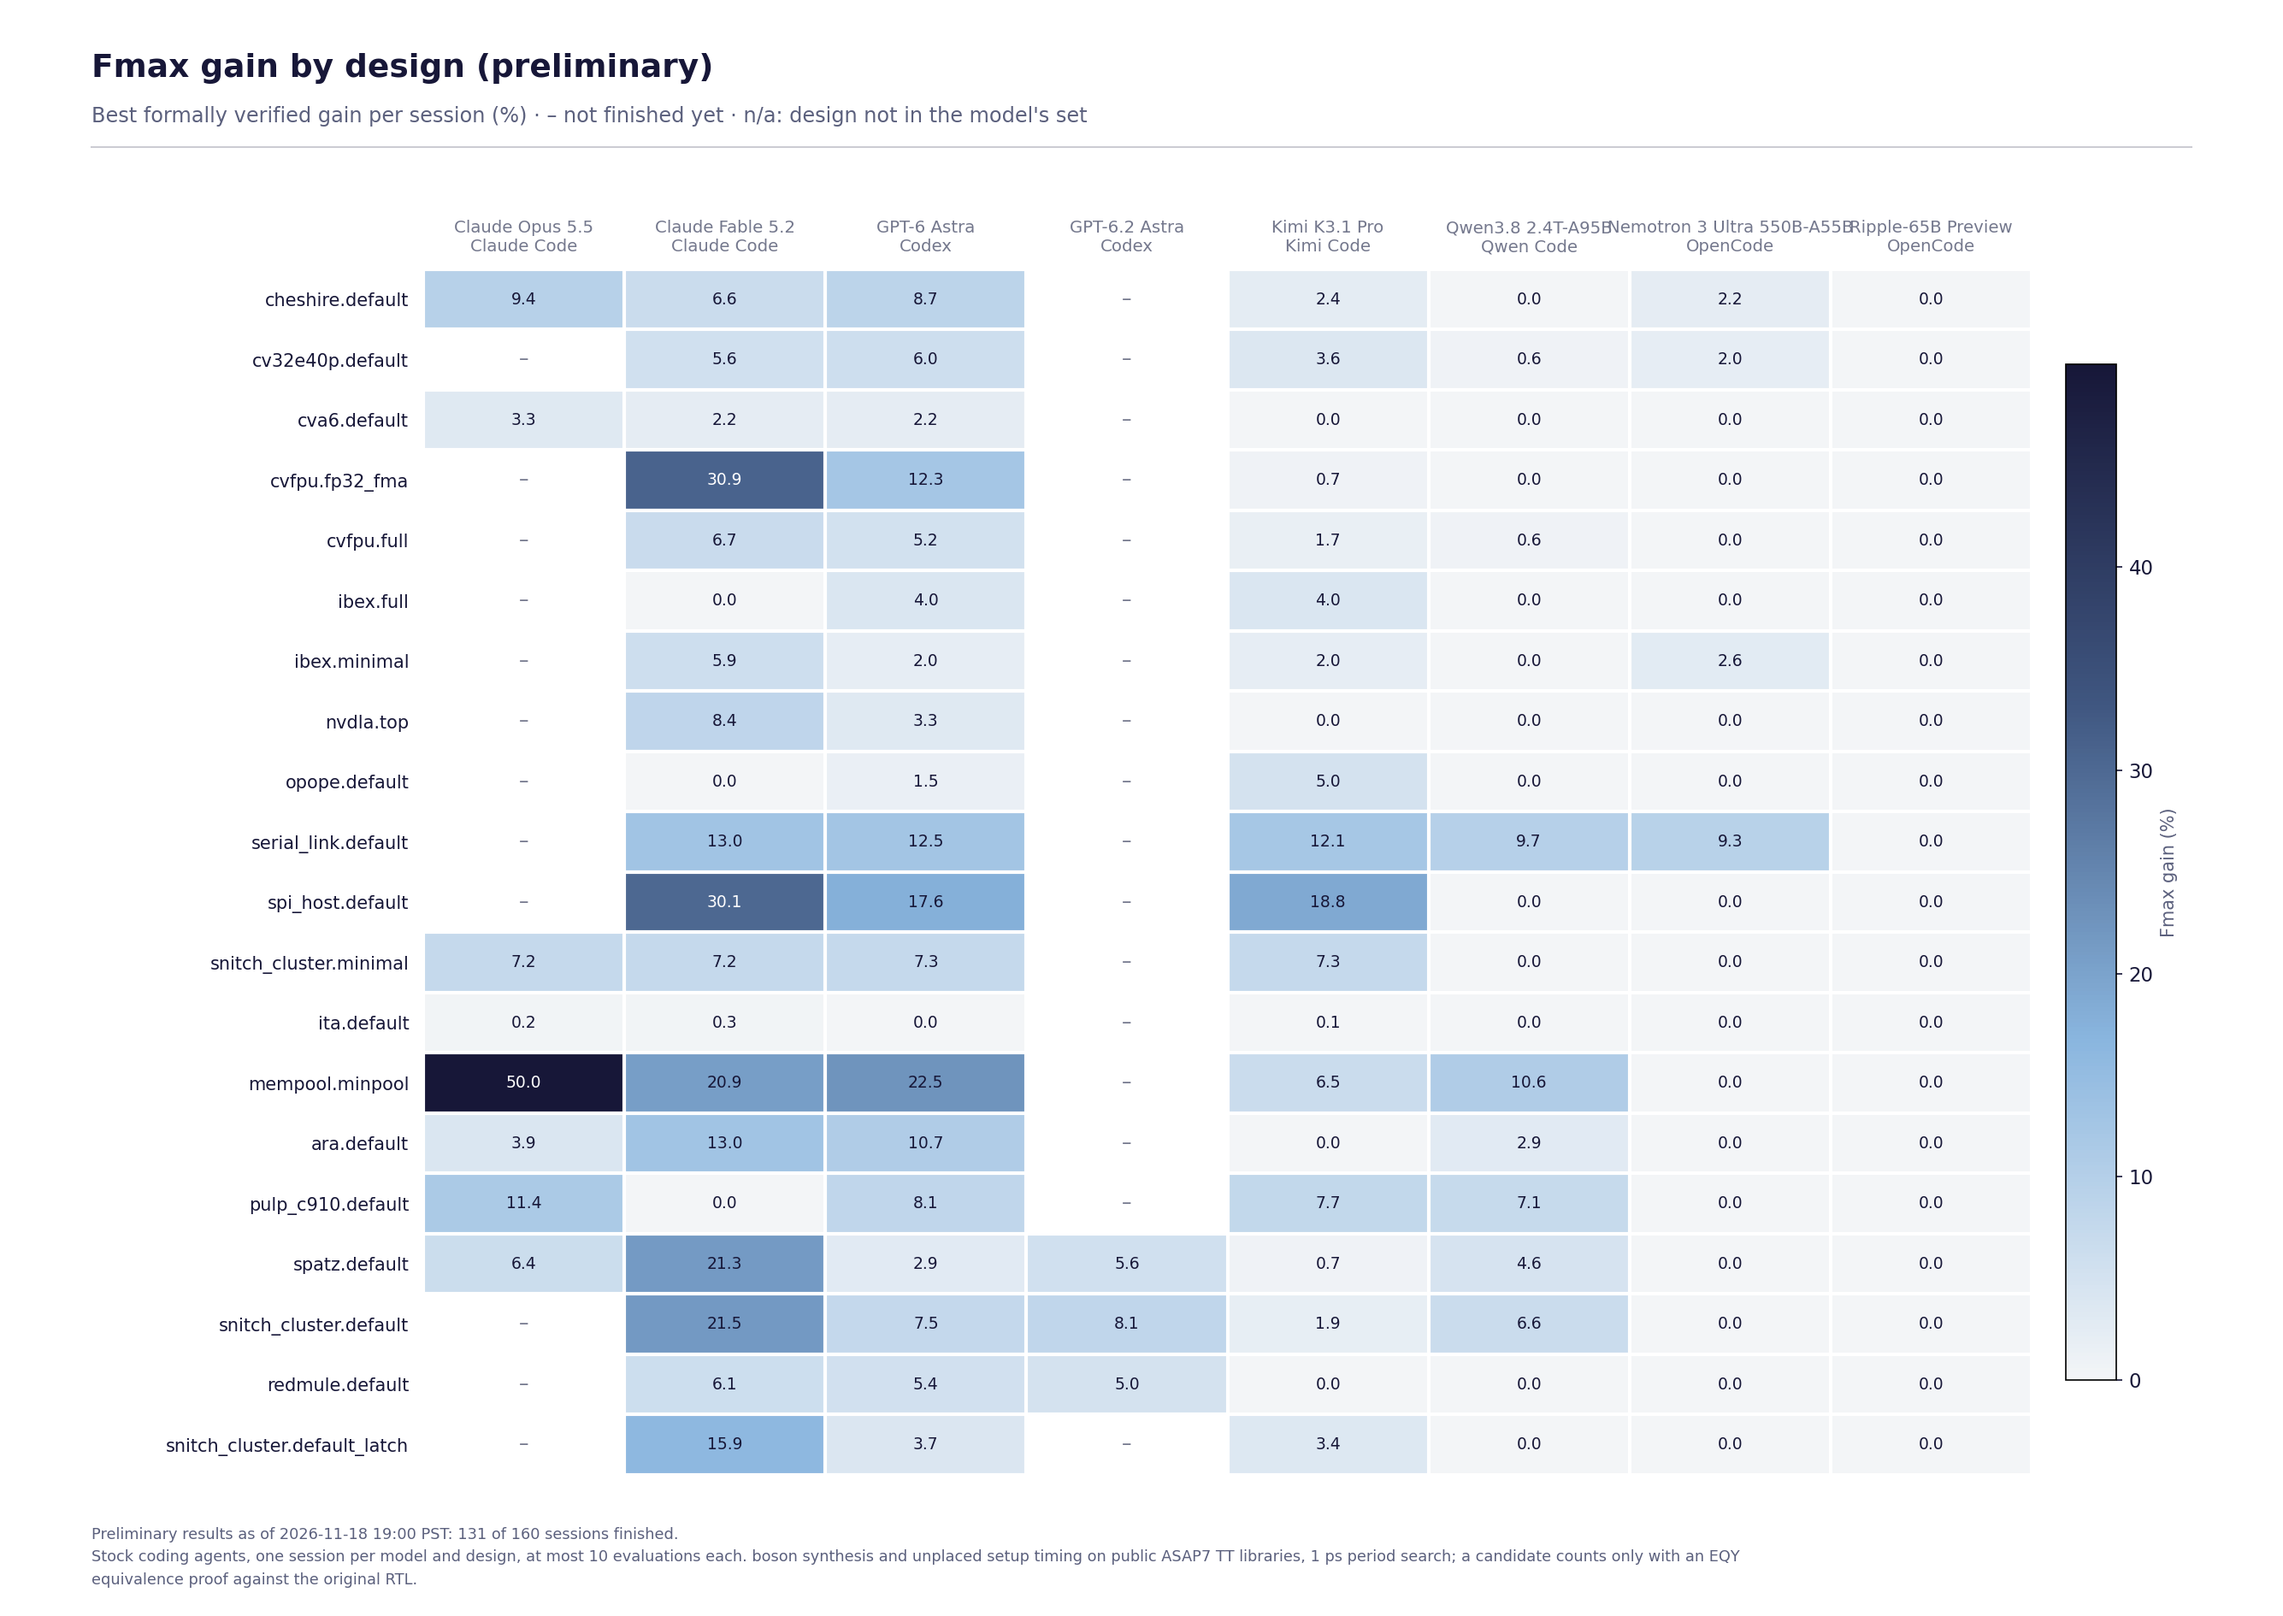
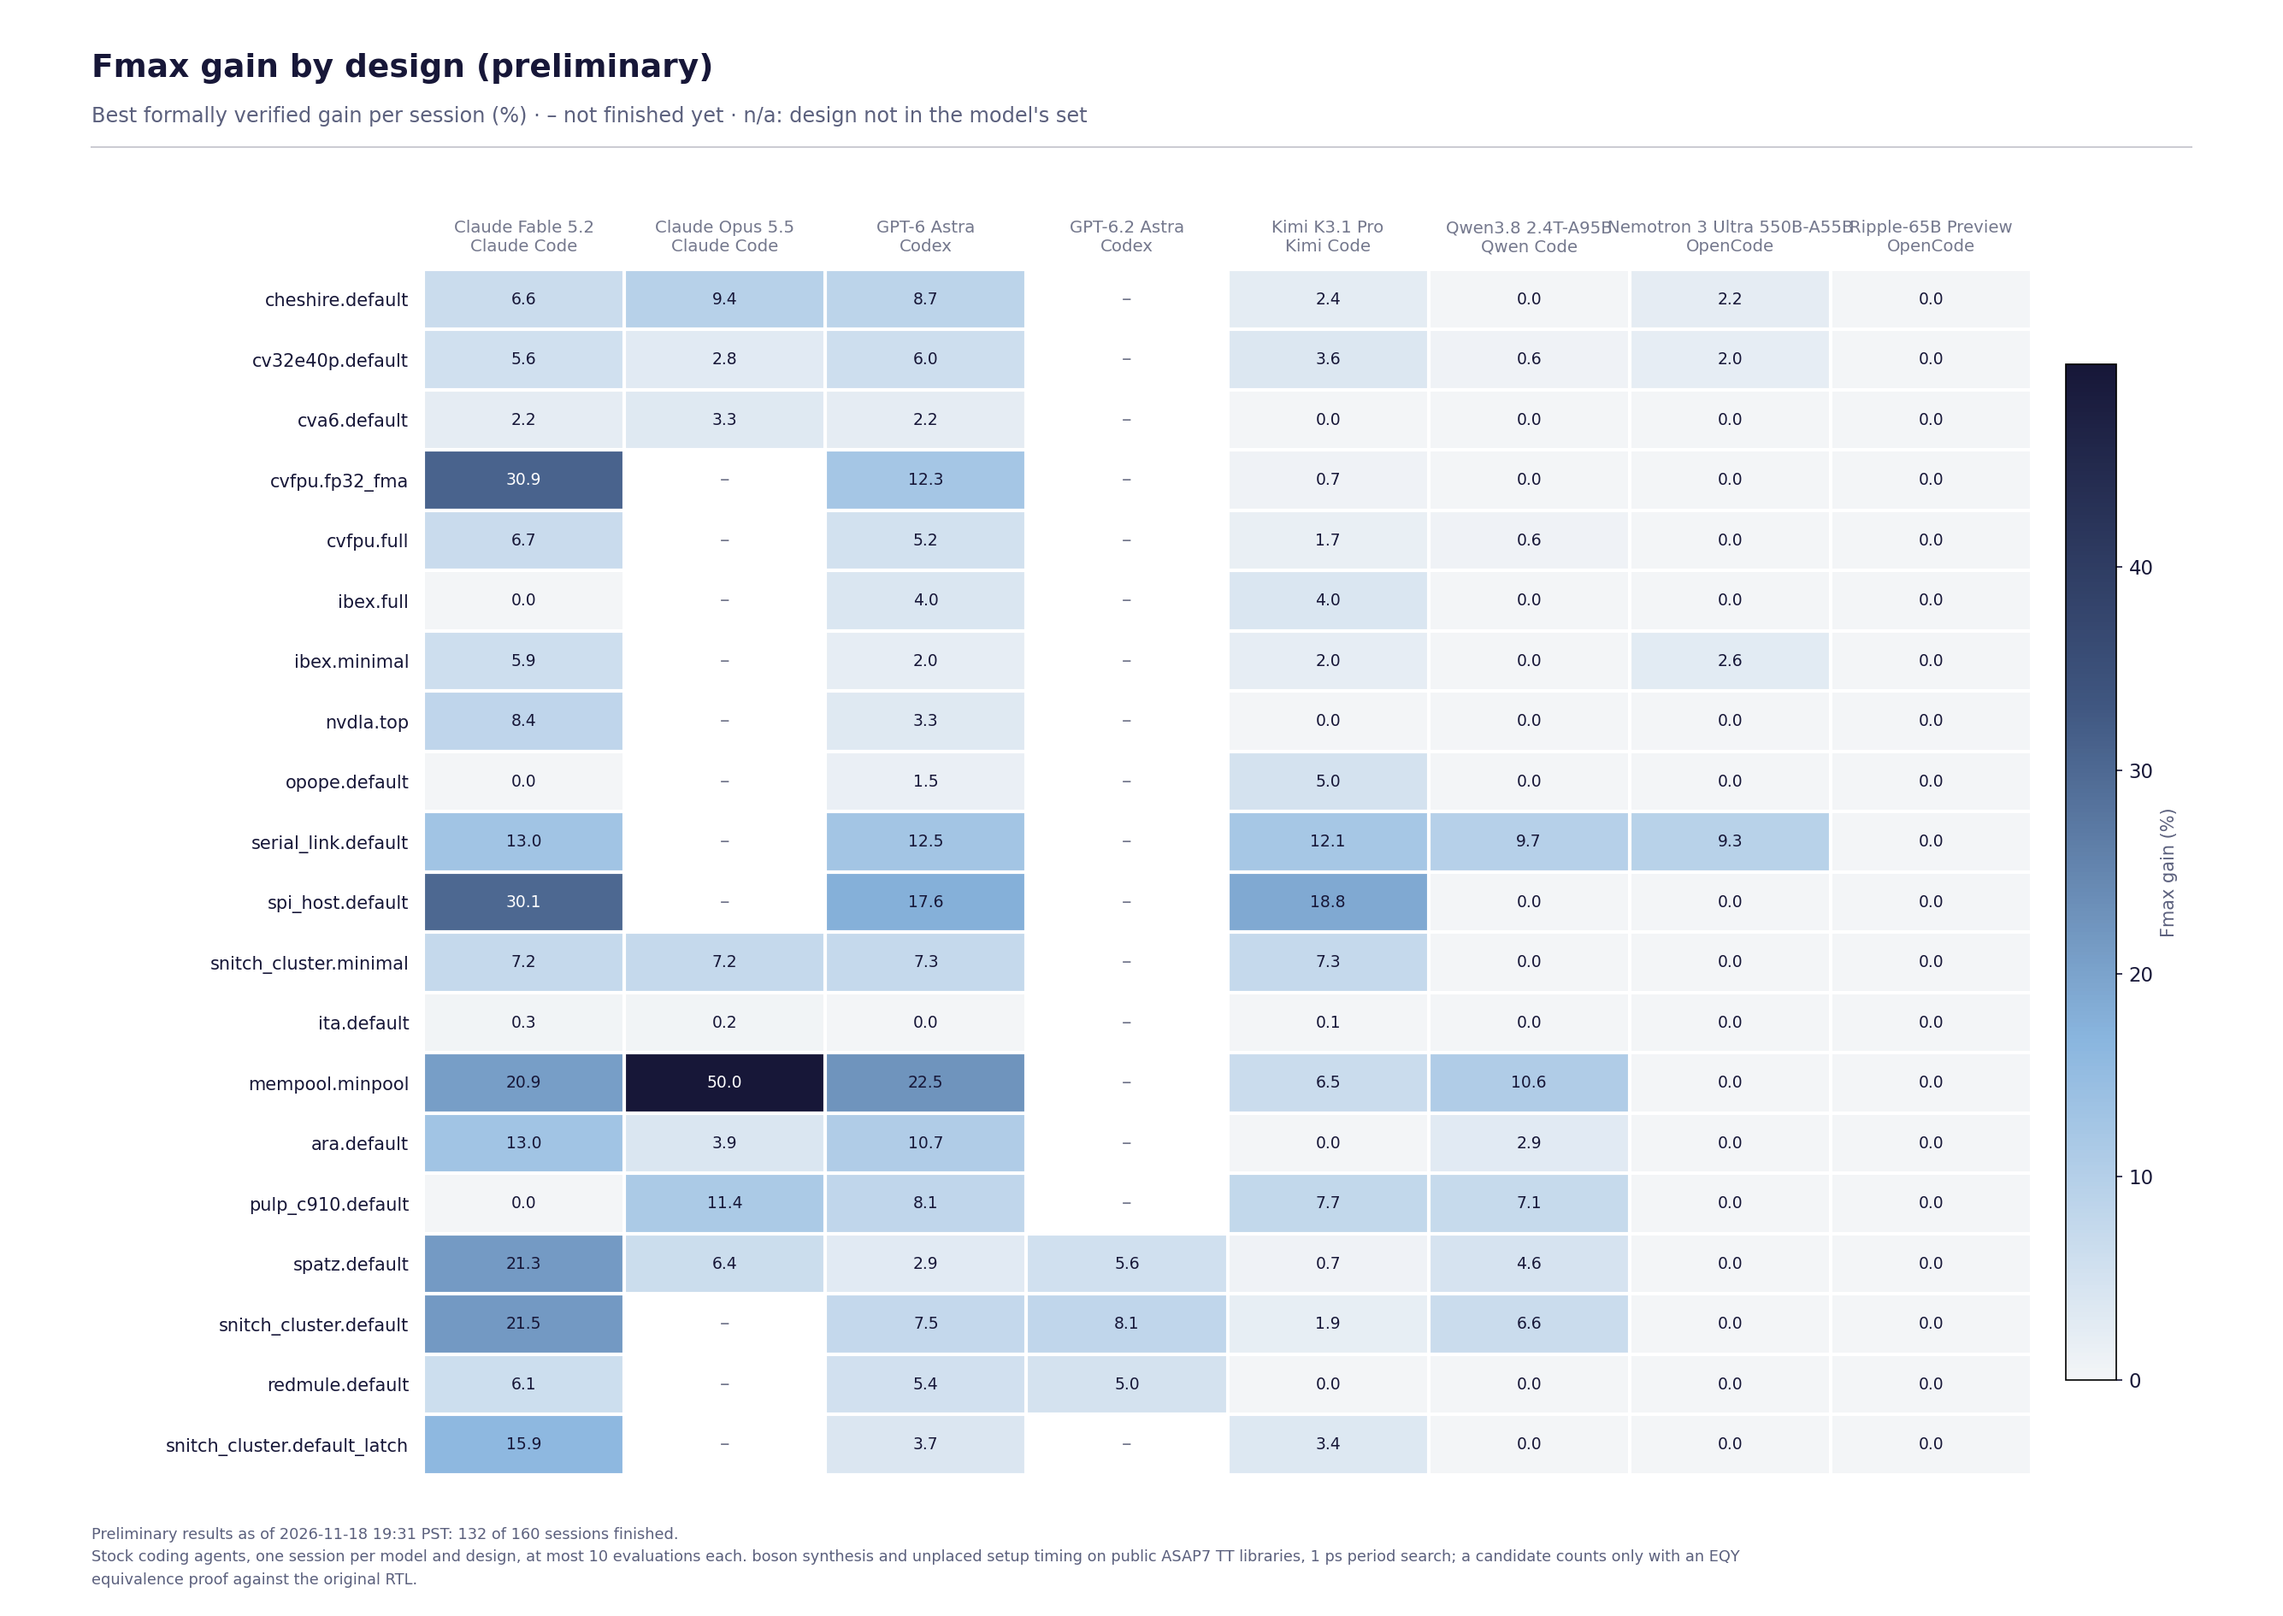
Refresh preliminary results: 132 of 160 sessions finished
Data as of 2026-11-18 19:31 PST.

diff --git a/README.md b/README.md
@@ -22,7 +22,7 @@ accepted only when it is proven equivalent and faster than the session's best so
 ## Results
 
 <!-- results:start -->
-**Status:** 131 of 160 sessions finished (8 models, 20 designs), as of 2026-11-18 19:00 PST.
+**Status:** 132 of 160 sessions finished (8 models, 20 designs), as of 2026-11-18 19:31 PST.
 
 ### Coverage
 
@@ -35,14 +35,14 @@ accepted only when it is proven equivalent and faster than the session's best so
 | Ripple-65B Preview | Ricursive AI | OpenCode 1.19.5 | Self-hosted (SGLang 0.5.19, BF16) for its first 15 designs; OpenRouter pinned to PrimeIntellect (BF16) for later sessions | 20 / 20 |
 | Nemotron 3 Ultra 550B-A55B | NVIDIA | OpenCode 1.19.5 | OpenRouter, pinned to DeepInfra (FP4), fallbacks disabled | 20 / 20 |
 | GPT-6.2 Astra | OpenAI | Codex 0.169.1 | Official CLI signed in to a subscription; reasoning effort medium, as GPT-6 Astra ran | 3 / 20 |
-| Claude Opus 5.5 | Anthropic | Claude Code 2.1.322 | Official CLI signed in to a subscription | 8 / 20 |
+| Claude Opus 5.5 | Anthropic | Claude Code 2.1.322 | Official CLI signed in to a subscription | 9 / 20 |
 
 ### Results by model
 
 | Model | Harness | Designs finished | Fmax gain (geomean) | Normalized score | Designs improved | Mean evaluations | Candidates not proven |
 |---|---|---:|---:|---:|---:|---:|---:|
-| Claude Opus 5.5 | Claude Code | 8 / 20 | +10.63% | 78.2 | 8 / 8 | 4.9 | 33% (13 / 39) |
 | Claude Fable 5.2 | Claude Code | 20 / 20 | +10.39% | 78.6 | 17 / 20 | 5.0 | 42% (42 / 99) |
+| Claude Opus 5.5 | Claude Code | 9 / 20 | +9.73% | 74.8 | 9 / 9 | 4.7 | 33% (14 / 42) |
 | GPT-6 Astra | Codex | 20 / 20 | +7.04% | 59.7 | 19 / 20 | 8.4 | 27% (45 / 169) |
 | GPT-6.2 Astra | Codex | 3 / 20 | +6.23% | 48.7 | 3 / 3 | 8.3 | 48% (12 / 25) |
 | Kimi K3.1 Pro | Kimi Code | 20 / 20 | +3.81% | 37.6 | 16 / 20 | 5.9 | 63% (74 / 118) |
@@ -57,7 +57,7 @@ Fmax gain is the geometric mean of each finished session's Fmax ratio (baseline 
 | Design | Baseline period (ns) | Sessions finished | Best period (ns) | Fmax gain | Best by |
 |---|---:|---:|---:|---:|---|
 | `cheshire.default` | 1.047 | 7 | 0.957 | +9.40% | Claude Opus 5.5 |
-| `cv32e40p.default` | 0.657 | 6 | 0.620 | +5.97% | GPT-6 Astra |
+| `cv32e40p.default` | 0.657 | 7 | 0.620 | +5.97% | GPT-6 Astra |
 | `cva6.default` | 1.038 | 7 | 1.005 | +3.28% | Claude Opus 5.5 |
 | `cvfpu.fp32_fma` | 1.401 | 6 | 1.070 | +30.93% | Claude Fable 5.2 |
 | `cvfpu.full` | 2.114 | 6 | 1.981 | +6.71% | Claude Fable 5.2 |
@@ -81,8 +81,8 @@ Fmax gain is the geometric mean of each finished session's Fmax ratio (baseline 
 
 Counts over every finished session of the models above. They describe what happened; with one session per model and design they do not establish causes or rankings.
 
-- 618 candidates evaluated: 171 accepted, 133 proven equivalent but not faster than the session's best, 306 not proven (228 with a partition EQY could not prove, 34 at the proof deadline, 38 over the proof memory budget, 6 for another reason), 8 failed to compile or measure.
-- Of 131 finished sessions, 88 ended with the agent finishing on its own, 42 ran to the time budget and 1 ended with an agent error.
+- 621 candidates evaluated: 173 accepted, 133 proven equivalent but not faster than the session's best, 307 not proven (229 with a partition EQY could not prove, 34 at the proof deadline, 38 over the proof memory budget, 6 for another reason), 8 failed to compile or measure.
+- Of 132 finished sessions, 89 ended with the agent finishing on its own, 42 ran to the time budget and 1 ended with an agent error.
 - Sessions used 4.7 of the 10 allowed evaluations on average; 21 used all 10.
 - Largest single gain so far: `mempool.minpool` by Claude Opus 5.5, 2.869 ns to 1.913 ns (+49.97% Fmax).
 <!-- results:end -->
